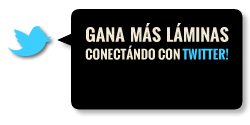
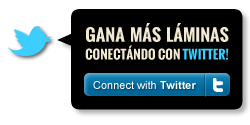
new game data image, and css

Changed region(s): [[0.336, 0.576, 0.924, 0.768]]

diff --git a/app/assets/stylesheets/lightbox.css b/app/assets/stylesheets/lightbox.css
@@ -196,7 +196,6 @@ ul.links li {
 
 
 #fancybox-content {
-    height:310px !important;
 }
 #fancybox-frame {
     overflow-y:auto !important;
@@ -220,11 +219,10 @@ ul.links li {
 }
 .light-instrucciones {
     height: auto;
-    float: left;
-    width: 730px;
-    padding-bottom:10px;
-    text-align: left;
+    width: 850px;
+    padding: 20px;
     min-height: 400px;
+    height: 400px;
     color: white;
 }
 .light-bases {
